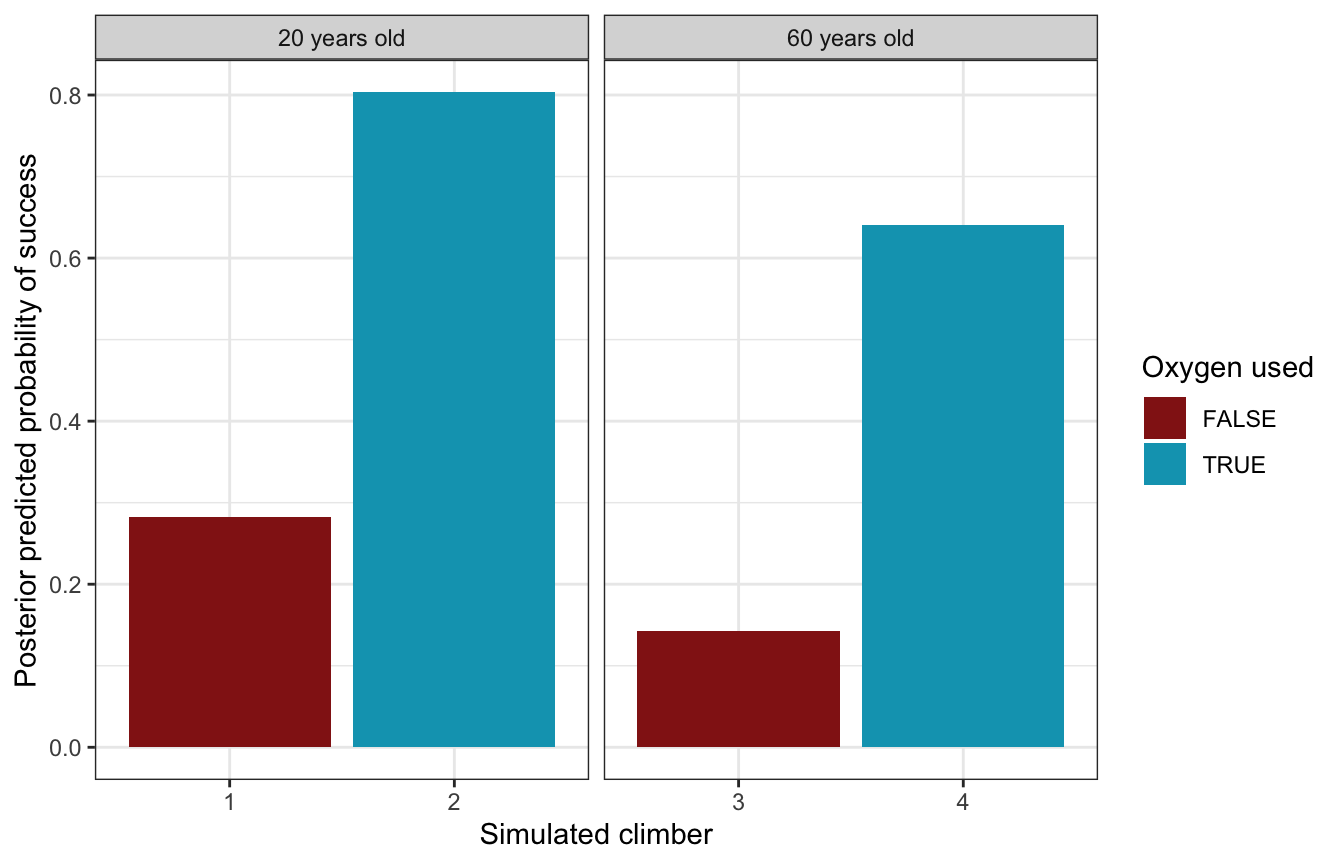
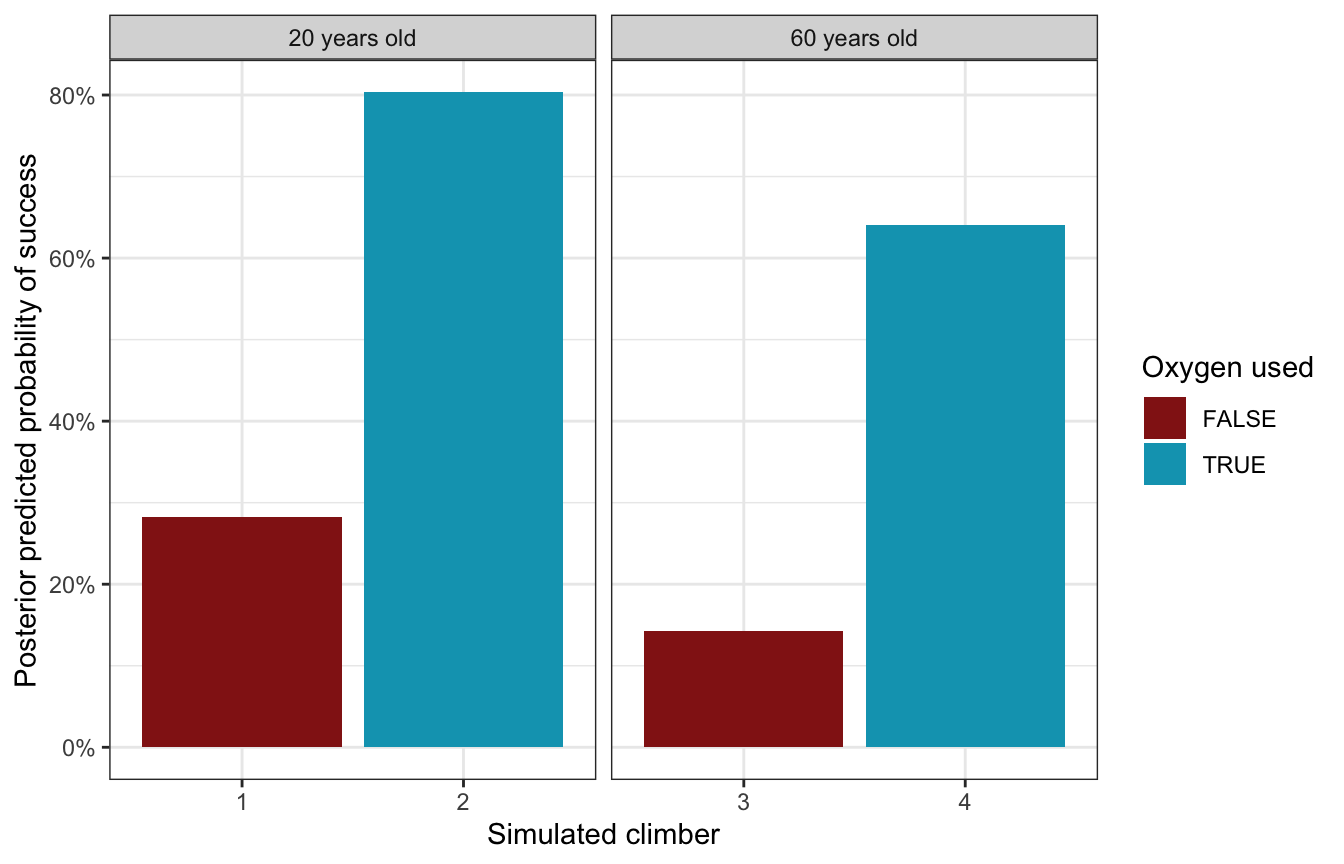
Built site for gh-pages

diff --git a/bayes-rules/18-chapter.html b/bayes-rules/18-chapter.html
@@ -461,9 +461,9 @@ code span.wa { color: #60a0b0; font-weight: bold; font-style: italic; } /* Warni
   <ul>
   <li><a href="#global-analysis" id="toc-global-analysis" class="nav-link" data-scroll-target="#global-analysis">Global analysis</a>
   <ul class="collapse">
-  <li><a href="#intercept-or-beta_0" id="toc-intercept-or-beta_0" class="nav-link" data-scroll-target="#intercept-or-beta_0">Intercept or <span class="math inline">\(\beta_0\)</span></a></li>
-  <li><a href="#age-effect-or-beta_1" id="toc-age-effect-or-beta_1" class="nav-link" data-scroll-target="#age-effect-or-beta_1">Age effect or <span class="math inline">\(\beta_1\)</span></a></li>
-  <li><a href="#oxygen-effect-or-beta_2" id="toc-oxygen-effect-or-beta_2" class="nav-link" data-scroll-target="#oxygen-effect-or-beta_2">Oxygen effect or <span class="math inline">\(\beta_2\)</span></a></li>
+  <li><a href="#intercept-beta_0" id="toc-intercept-beta_0" class="nav-link" data-scroll-target="#intercept-beta_0">Intercept (<span class="math inline">\(\beta_0\)</span>)</a></li>
+  <li><a href="#age-beta_1" id="toc-age-beta_1" class="nav-link" data-scroll-target="#age-beta_1">Age (<span class="math inline">\(\beta_1\)</span>)</a></li>
+  <li><a href="#oxygen-beta_2" id="toc-oxygen-beta_2" class="nav-link" data-scroll-target="#oxygen-beta_2">Oxygen (<span class="math inline">\(\beta_2\)</span>)</a></li>
   <li><a href="#age-and-oxygen-at-the-same-time" id="toc-age-and-oxygen-at-the-same-time" class="nav-link" data-scroll-target="#age-and-oxygen-at-the-same-time">Age and oxygen at the same time</a></li>
   </ul></li>
   <li><a href="#team-specific-analysis" id="toc-team-specific-analysis" class="nav-link" data-scroll-target="#team-specific-analysis">Team-specific analysis</a></li>
@@ -812,12 +812,12 @@ b_{0_j} &amp;\sim \mathcal{N}(0, \sigma_0) &amp; \text{Team-specific offsets fro
 </div>
 </div>
 <p>Here’s how to interpret all these coefficients, using the brms results:</p>
-<section id="intercept-or-beta_0" class="level5">
-<h5 class="anchored" data-anchor-id="intercept-or-beta_0">Intercept or <span class="math inline">\(\beta_0\)</span></h5>
+<section id="intercept-beta_0" class="level5">
+<h5 class="anchored" data-anchor-id="intercept-beta_0">Intercept (<span class="math inline">\(\beta_0\)</span>)</h5>
 <p>The posterior mean for <span class="math inline">\(\beta_0\)</span> is -3.09, but that’s weird and on the logit scale. We can convert this to the probability scale with <span class="math inline">\(\frac{e^{-3.09}}{1 + e^{-3.09}}\)</span> or with <code>plogis()</code>, which is 0.043. This means that the posterior mean probability of success for a climber of average age (36.96 years) and when not using oxygen is 4.3%, and there’s an 80% chance it’s between 2.8% and 6.6%.</p>
 </section>
-<section id="age-effect-or-beta_1" class="level5">
-<h5 class="anchored" data-anchor-id="age-effect-or-beta_1">Age effect or <span class="math inline">\(\beta_1\)</span></h5>
+<section id="age-beta_1" class="level5">
+<h5 class="anchored" data-anchor-id="age-beta_1">Age (<span class="math inline">\(\beta_1\)</span>)</h5>
 <p>The posterior mean for <span class="math inline">\(\beta_1\)</span> is -0.047, but that’s also weird and logit-ed.&nbsp;We can exponentiate it (<span class="math inline">\(e^{-0.047}\)</span>) and get a mean posterior odds ratio of 0.954, with an 80% credible interval of 0.943–0.965). A one-year increase in a typical climber’s age makes climbing success 4.6% <em>less</em> likely (with an 80% credible interval of 3.5%–5.7%).</p>
 <p>We can also convert these results to a much more manageable probability scale, but that’s a little trickier now that we’re working with multiple covariates. We can’t just do this, since we also have a <code>b2</code> to deal with:</p>
 <div class="cell">
@@ -877,8 +877,8 @@ b_{0_j} &amp;\sim \mathcal{N}(0, \sigma_0) &amp; \text{Team-specific offsets fro
 </div>
 <p>For a typical young climber (18 years old), a one-year increase in age is associated with a posterior mean -0.339 percentage point decrease in the probability of success. That’s a sizable drop! For a typical middle-aged climber (40 years old), getting older is associated with a smaller -0.134 percentage point drop in probability, while older climbers (60 years old) see an even smaller -0.054 percentage point decline. Age thus seems to matter the most for younger climbers—it doesn’t have an effect on the typical older climber.</p>
 </section>
-<section id="oxygen-effect-or-beta_2" class="level5">
-<h5 class="anchored" data-anchor-id="oxygen-effect-or-beta_2">Oxygen effect or <span class="math inline">\(\beta_2\)</span></h5>
+<section id="oxygen-beta_2" class="level5">
+<h5 class="anchored" data-anchor-id="oxygen-beta_2">Oxygen (<span class="math inline">\(\beta_2\)</span>)</h5>
 <p>The posterior mean for <span class="math inline">\(\beta_2\)</span> is 5.651 in the log odds world. Exponentiating it (<span class="math inline">\(e^{5.651}\)</span>) gives us a <em>massive</em> mean posterior odds ratio of 284.446, with an 80% credible interval of 160.629–515.843). Holding age constant, oxygen use in a typical climber increases the odds of success by 161–516 times! Wild!</p>
 <p>Let’s translate this to probabilities. Holy crap there’s a massive difference the probability of success:</p>
 <div class="cell">
@@ -961,7 +961,7 @@ b_{0_j} &amp;\sim \mathcal{N}(0, \sigma_0) &amp; \text{Team-specific offsets fro
 </section>
 <section id="age-and-oxygen-at-the-same-time" class="level5">
 <h5 class="anchored" data-anchor-id="age-and-oxygen-at-the-same-time">Age and oxygen at the same time</h5>
-<p>For fun, here’s what the effect of both age and oxygen look like simultanously:</p>
+<p>For fun, here’s what the effect of both age and oxygen look like simultaneously:</p>
 <div class="cell">
 <div class="sourceCode cell-code" id="cb25"><pre class="sourceCode r code-with-copy"><code class="sourceCode r"><span id="cb25-1"><a href="#cb25-1" aria-hidden="true" tabindex="-1"></a><span class="fu">datagrid</span>(<span class="at">model =</span> model_success_brms,</span>
 <span id="cb25-2"><a href="#cb25-2" aria-hidden="true" tabindex="-1"></a>         <span class="at">oxygen_used =</span> <span class="fu">c</span>(<span class="cn">TRUE</span>, <span class="cn">FALSE</span>),</span>
@@ -1153,7 +1153,7 @@ B_0 + b_{0_j}
 </section>
 <section id="posterior-classification" class="level3">
 <h3 class="anchored" data-anchor-id="posterior-classification">Posterior classification</h3>
-<p>To see how this model predict/classifies new climbers, we can create a set of simulated climbers with different combinations of ages and oxygen use:</p>
+<p>To see how this model predict/classifies new climbers, we can create a set of simulated climbers with different combinations of ages and oxygen use. As expected, the climber with the highest probability of success is the young one planning on using oxygen; the climber with the lowest probability is the old one sans oxygen.</p>
 <div class="cell">
 <div class="sourceCode cell-code" id="cb34"><pre class="sourceCode r code-with-copy"><code class="sourceCode r"><span id="cb34-1"><a href="#cb34-1" aria-hidden="true" tabindex="-1"></a>binary_prediction <span class="ot">&lt;-</span> model_success_brms <span class="sc">|&gt;</span> </span>
 <span id="cb34-2"><a href="#cb34-2" aria-hidden="true" tabindex="-1"></a>  <span class="fu">predicted_draws</span>(<span class="fu">expand_grid</span>(<span class="at">age_c =</span> <span class="fu">c</span>(<span class="dv">20</span>, <span class="dv">60</span>) <span class="sc">-</span> unscaled<span class="sc">$</span>age_c<span class="sc">$</span>scaled_center,</span>
@@ -1166,10 +1166,11 @@ B_0 + b_{0_j}
 <span id="cb34-9"><a href="#cb34-9" aria-hidden="true" tabindex="-1"></a>         <span class="at">age =</span> glue<span class="sc">::</span><span class="fu">glue</span>(<span class="st">"{age} years old"</span>)) <span class="sc">|&gt;</span> </span>
 <span id="cb34-10"><a href="#cb34-10" aria-hidden="true" tabindex="-1"></a>  <span class="fu">ggplot</span>(<span class="fu">aes</span>(<span class="at">x =</span> <span class="fu">factor</span>(.row), <span class="at">y =</span> .prediction, <span class="at">fill =</span> oxygen_used)) <span class="sc">+</span></span>
 <span id="cb34-11"><a href="#cb34-11" aria-hidden="true" tabindex="-1"></a>  <span class="fu">geom_col</span>() <span class="sc">+</span></span>
-<span id="cb34-12"><a href="#cb34-12" aria-hidden="true" tabindex="-1"></a>  <span class="fu">scale_fill_manual</span>(<span class="at">values =</span> <span class="fu">c</span>(clrs[<span class="dv">3</span>], clrs[<span class="dv">1</span>])) <span class="sc">+</span></span>
-<span id="cb34-13"><a href="#cb34-13" aria-hidden="true" tabindex="-1"></a>  <span class="fu">facet_wrap</span>(<span class="fu">vars</span>(age), <span class="at">scales =</span> <span class="st">"free_x"</span>) <span class="sc">+</span></span>
-<span id="cb34-14"><a href="#cb34-14" aria-hidden="true" tabindex="-1"></a>  <span class="fu">labs</span>(<span class="at">x =</span> <span class="st">"Simulated climber"</span>, <span class="at">y =</span> <span class="st">"Posterior predicted probability of success"</span>,</span>
-<span id="cb34-15"><a href="#cb34-15" aria-hidden="true" tabindex="-1"></a>       <span class="at">fill =</span> <span class="st">"Oxygen used"</span>)</span></code><button title="Copy to Clipboard" class="code-copy-button"><i class="bi"></i></button></pre></div>
+<span id="cb34-12"><a href="#cb34-12" aria-hidden="true" tabindex="-1"></a>  <span class="fu">scale_y_continuous</span>(<span class="at">labels =</span> <span class="fu">label_percent</span>()) <span class="sc">+</span></span>
+<span id="cb34-13"><a href="#cb34-13" aria-hidden="true" tabindex="-1"></a>  <span class="fu">scale_fill_manual</span>(<span class="at">values =</span> <span class="fu">c</span>(clrs[<span class="dv">3</span>], clrs[<span class="dv">1</span>])) <span class="sc">+</span></span>
+<span id="cb34-14"><a href="#cb34-14" aria-hidden="true" tabindex="-1"></a>  <span class="fu">facet_wrap</span>(<span class="fu">vars</span>(age), <span class="at">scales =</span> <span class="st">"free_x"</span>) <span class="sc">+</span></span>
+<span id="cb34-15"><a href="#cb34-15" aria-hidden="true" tabindex="-1"></a>  <span class="fu">labs</span>(<span class="at">x =</span> <span class="st">"Simulated climber"</span>, <span class="at">y =</span> <span class="st">"Posterior predicted probability of success"</span>,</span>
+<span id="cb34-16"><a href="#cb34-16" aria-hidden="true" tabindex="-1"></a>       <span class="at">fill =</span> <span class="st">"Oxygen used"</span>)</span></code><button title="Copy to Clipboard" class="code-copy-button"><i class="bi"></i></button></pre></div>
 <div class="cell-output-display">
 <p><img src="18-chapter_files/figure-html/unnamed-chunk-32-1.png" class="img-fluid" width="672"></p>
 </div>
